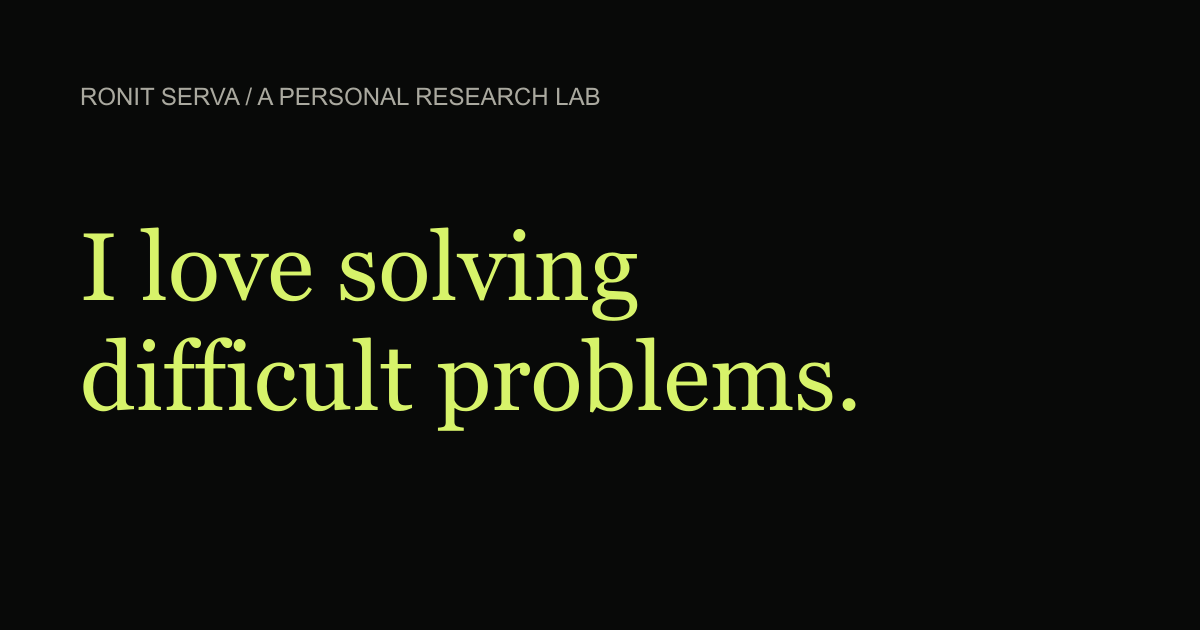
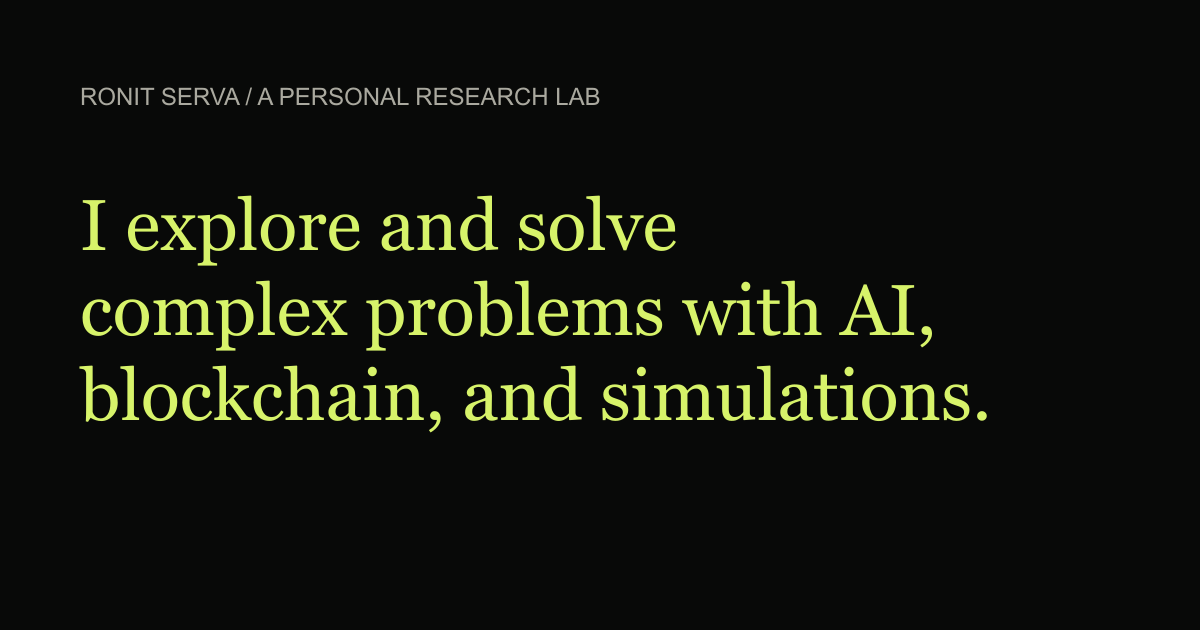
Update Site source

Changed region(s): [[0.0617, 0.3016, 0.8325, 0.6937]]

diff --git a/src/styles/global.css b/src/styles/global.css
@@ -64,8 +64,8 @@ a:hover .arrow, a:focus-visible .arrow { transform: translate(3px, -3px); }
 .editorial-link { display: inline-flex; align-items: center; min-height: 48px; padding: 10px 0; font-size: 14px; }
 .link-visual { display: inline-flex; align-items: center; justify-content: space-between; gap: 24px; position: relative; padding-block: 3px 8px; border-bottom: 1px solid var(--color-line); }
 .editorial-link:hover .link-visual { border-color: var(--color-accent-hover); }
-.editorial-link.angled { padding: 24px 0; }
-.editorial-link.angled .link-visual { transform: rotate(-12deg); transform-origin: center; padding-bottom: 10px; min-width: 120px; }
+.hero-links .editorial-link, .contact-intro .editorial-link { padding: 24px 0; }
+.hero-links .link-visual, .contact-intro .link-visual { padding-bottom: 10px; }
 .hero { max-width: 1552px; margin: 8px auto 0; padding-inline: 24px; display: grid; grid-template-columns: 1.75fr 1fr; gap: 32px; }
 .hero-text { min-height: clamp(640px, calc(100svh - 144px), 890px); display: flex; flex-direction: column; justify-content: space-between; padding: 36px clamp(24px, 3vw, 56px) 32px; }
 .hero-intro { display: flex; align-items: center; gap: 12px; }
@@ -73,7 +73,7 @@ a:hover .arrow, a:focus-visible .arrow { transform: translate(3px, -3px); }
 .hero h1 { font-size: clamp(54px, 7.8vw, 120px); line-height: 1.02; letter-spacing: -0.025em; margin-bottom: 48px; }
 .hero-links { display: flex; align-items: center; gap: clamp(32px, 4vw, 72px); padding-left: 6px; }
 .hero-links .editorial-link { font-size: 19px; }
-.hero-links .editorial-link.angled .link-visual { min-width: clamp(100px, 10vw, 160px); }
+.hero-links .editorial-link .link-visual { min-width: clamp(100px, 10vw, 160px); }
 .hero-bottom { display: flex; align-items: end; justify-content: space-between; gap: 24px; font-size: 10px; line-height: 1.8; color: var(--color-text-muted); }
 .hero-bottom p { margin: 0; }
 .hero-bottom a { white-space: nowrap; padding-block: 4px; }
@@ -258,7 +258,7 @@ a:hover .arrow, a:focus-visible .arrow { transform: translate(3px, -3px); }
   .hero-text { padding-inline: 16px; min-height: 610px; }
   .hero-links { gap: 30px; }
   .hero-links .editorial-link { font-size: 16px; }
-  .hero-links .editorial-link.angled .link-visual { min-width: 100px; gap: 16px; }
+  .hero-links .editorial-link .link-visual { min-width: 100px; gap: 16px; }
   .hero-bottom { font-size: 9px; }
   .question-previews { gap: 40px; }
   .reading-grid { grid-template-columns: 180px minmax(0, 1fr); gap: 48px; }
@@ -287,7 +287,7 @@ a:hover .arrow, a:focus-visible .arrow { transform: translate(3px, -3px); }
   .hero h1 { font-size: clamp(46px, 10.9vw, 78px); margin-bottom: 36px; }
   .hero-links { gap: clamp(24px, 6vw, 48px); padding-left: 0; }
   .hero-links .editorial-link { font-size: 14px; }
-  .hero-links .editorial-link.angled .link-visual { min-width: 88px; gap: 12px; }
+  .hero-links .editorial-link .link-visual { min-width: 88px; gap: 12px; }
   .hero-bottom { gap: 16px; font-size: 9px; }
   .hero-photo { align-self: stretch; border-radius: 26px; max-width: 600px; width: 100%; margin-inline: auto; }
   .section-heading { display: block; margin-bottom: 40px; }
@@ -353,7 +353,7 @@ a:hover .arrow, a:focus-visible .arrow { transform: translate(3px, -3px); }
 }
 @media (max-width: 370px) {
   .hero-links { gap: 16px; }
-  .hero-links .editorial-link.angled .link-visual { min-width: 80px; }
+  .hero-links .editorial-link .link-visual { min-width: 80px; }
   .hero h1 { font-size: 41px; }
   .hero-bottom { flex-direction: column; align-items: start; }
   .wordmark-sub { display: none; }
@@ -366,3 +366,9 @@ a:hover .arrow, a:focus-visible .arrow { transform: translate(3px, -3px); }
 .copy-code { display: block; margin-left: auto; padding: 8px; color: var(--color-accent); font-size: 11px; }
 
 .row-date { font-size: 10px; color: var(--color-text-muted); }
+
+/* Keep the longer homepage statement readable within the split hero. */
+.hero h1.hero-tagline { font-size: clamp(42px, 5.2vw, 80px); line-height: 1.08; }
+@media (max-width: 767px) {
+  .hero h1.hero-tagline { font-size: clamp(38px, 9vw, 62px); }
+}

diff --git a/README.md b/README.md
@@ -4,14 +4,14 @@ A static Astro + TypeScript website. Source content is Markdown; the site ships 
 
 ## Run it
 
-Use Node 22.19+ (or a supported newer LTS).
+Run these commands from `lab/` or the workspace root. Use Node 22.19+ (or a supported newer LTS).
 
 ```sh
 npm ci
 npm run dev
 ```
 
-Open the local address printed by Astro. `npm run verify` checks TypeScript/content, builds the site, and verifies generated links, anchors, metadata and draft exclusion. `npm run preview` serves the production build. Output is in `dist/`.
+Open the local address printed by Astro. `npm run verify` checks TypeScript/content, builds the site, and verifies generated links, anchors, metadata and draft exclusion. `npm run preview` serves the production build. Output is in `lab/dist/` (or `dist/` when running from `lab/`).
 
 ## Publish content
 
@@ -67,6 +67,6 @@ Copy the private `src/content/articles/writing-template.md` to a new slug, repla
 
 ## Initial content and editorial decisions
 
-The source briefs and original reference remain in the parent directory. Seed entries summarize the supplied profile; they are not new research publications. No article drafts were supplied, so the writing library starts empty. The finance app is explicitly self-reported, handwriting training is unverified, and the agent-payment design remains a concept. No fabricated demos, repositories, outcomes or metrics are included. Trading research awaits its source material. Email, exact location and the inconsistent TKS end date are omitted.
+The source briefs and original reference remain in the parent directory. Seed entries summarize the supplied profile; they are not new research publications. No article drafts were supplied, so the writing library starts empty. The finance app is explicitly self-reported, the handwriting entries are retained as private drafts, and the agent-payment design remains a concept. No fabricated demos, repositories, outcomes or metrics are included. Trading research awaits its source material. Email, exact location and the inconsistent TKS end date are omitted.
 
-Deployment starts owner-private through the Sites plugin. Making it public is a separate owner choice. This website needs no runtime secrets, database or external API.
+Hosted on ChatGPT Sites at https://ronit-research-lab.heartyrook128.chatgpt.site. The canonical origin defaults to this URL; `PUBLIC_SITE_URL` can override it for another host. This website needs no runtime secrets, database or external API.

diff --git a/src/content/investigations/personal-finance-management.md b/src/content/investigations/personal-finance-management.md
@@ -1,0 +1,40 @@
+---
+title: Making personal finance understandable
+question: How can personal finance become easier to understand and manage?
+summary: An everyday financial-management problem led me to design a clearer framework and build a web application around it.
+status: Exploring
+topics: [Financial Systems]
+visibility: public
+draft: false
+featured: true
+order: 2
+openQuestions:
+  - What makes a personal-finance interface intuitive to use?
+  - How can complex financial information become understandable without hiding important details?
+  - What should someone need to trust a financial tool?
+  - How can software help people make decisions while keeping them in control?
+related:
+  - collection: projects
+    id: personal-finance-app
+    reason: The application grew out of this practical problem and my effort to make financial organization more intuitive.
+references: []
+---
+## A practical starting point
+
+Seeing a family member struggle with managing personal finances prompted me to look for a more intuitive approach. I wanted to turn an everyday difficulty into something I could address through design and software.
+
+## From a problem to an application
+
+I designed a personal-finance management framework and built a web application around it. The aim was to make financial organization easier to understand and use.
+
+The connected project page describes the work so far. Detailed features, screenshots, implementation choices and public access still need to be documented.
+
+## The questions behind the interface
+
+Building the application made the broader problem more interesting. How can financial information be clear without becoming oversimplified? What makes an interface feel intuitive? What does a person need to understand before trusting a financial tool?
+
+These are questions the project raises, rather than claims of measured improvements or completed user research.
+
+## What comes next
+
+The next step for this case study is to document the actual application: its workflows, design decisions, implementation and lessons from building it. Those artifacts will make it possible to explain the approach in concrete terms.

diff --git a/src/content/projects/personal-finance-app.md b/src/content/projects/personal-finance-app.md
@@ -1,5 +1,5 @@
 ---
-title: Personal finance, made clearer
+title: Personal finance management application
 summary: A financial-management framework and web app, prompted by a practical problem close to home.
 status: Built · self-reported
 topics: [Financial Systems]
@@ -8,6 +8,9 @@ draft: false
 featured: true
 order: 1
 related:
+  - collection: investigations
+    id: personal-finance-management
+    reason: The everyday financial-management problem that motivated this application.
   - collection: investigations
     id: agentic-payments-and-trust
     reason: Both explore how financial tools can give people useful capability while preserving control.

diff --git a/src/content/investigations/handwriting-generalization.md b/src/content/investigations/handwriting-generalization.md
@@ -4,9 +4,9 @@ question: How do we know a handwriting model really generalizes?
 summary: Looking beyond a single accuracy number to the characters, conditions and failure cases a model struggles with.
 status: Exploring
 topics: [Machine Learning]
-visibility: public
-draft: false
-featured: true
+visibility: private
+draft: true
+featured: false
 order: 2
 openQuestions:
   - How does the model behave on handwriting outside its training distribution?

diff --git a/src/content/projects/handwriting-recognition.md b/src/content/projects/handwriting-recognition.md
@@ -3,9 +3,9 @@ title: Reading handwritten characters
 summary: A ResNet + EMNIST recognition pipeline, with an emphasis on reproducible training and meaningful evaluation.
 status: In development
 topics: [Machine Learning]
-visibility: public
-draft: false
-featured: true
+visibility: private
+draft: true
+featured: false
 order: 2
 stack: [ResNet, EMNIST ByClass, Google Colab]
 related:
